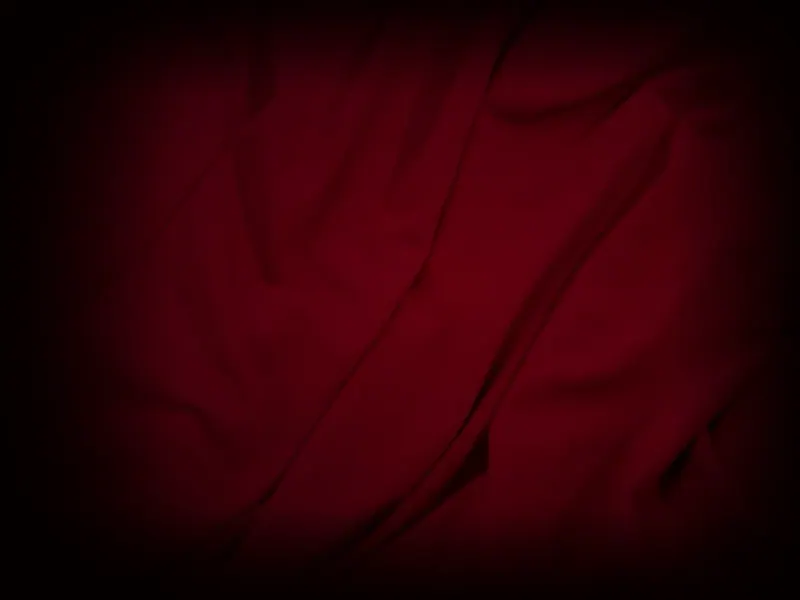
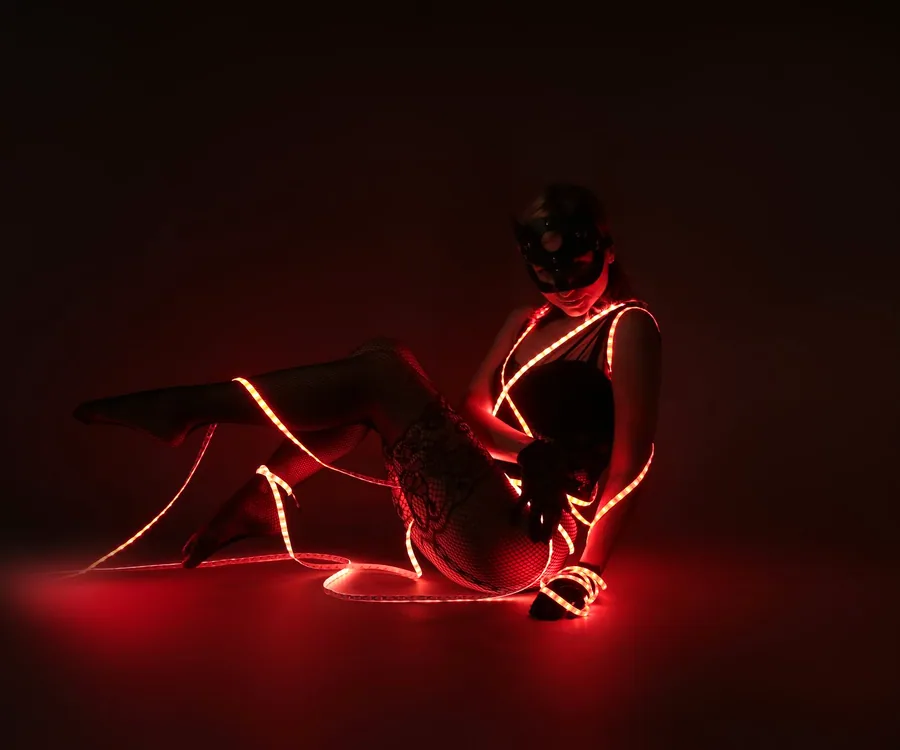
arreglo imagen

diff --git a/frontend/src/pages/HomePage.jsx b/frontend/src/pages/HomePage.jsx
@@ -181,133 +181,100 @@ const HomePage = () => {
 
   return (
     <div className="space-y-0">
-      {/* 1. Hero — Calibrado para entrar completo en 1366x768 y 1920x1080 sin scroll */}
-      <section className="relative min-h-[480px] lg:min-h-[530px] flex items-center smoke-texture border-b border-brand-border/20 overflow-hidden">
-        {/* Fondo en celular: imagen del hero con overlay oscuro para máxima legibilidad sin desplazar botones */}
-        <div className="absolute inset-0 lg:hidden pointer-events-none">
+      {/* 1. Hero — Imagen de fondo a pantalla completa (full-bleed) con overlay y textos a la izquierda */}
+      <section className="relative min-h-[480px] lg:min-h-[540px] flex items-center bg-canvas border-b border-brand-border/20 overflow-hidden">
+        {/* Imagen de fondo full-width en todo el Hero */}
+        <div className="absolute inset-0 pointer-events-none select-none">
           {!heroImgError && heroImageUrl ? (
             <img
-              src={heroMobileUrl || heroImageUrl}
-              srcSet={`${heroMobileUrl} 800w, ${heroImageUrl} 1400w`}
+              src={heroImageUrl}
+              srcSet={`${heroMobileUrl} 900w, ${heroImageUrl} 1920w`}
               sizes="100vw"
-              width="800"
-              height="600"
-              alt=""
-              aria-hidden="true"
+              width="1920"
+              height="760"
+              {...{ fetchpriority: 'high' }}
               decoding="async"
+              alt="Ambientación íntima nocturna — Nocturna SexShop"
               onError={() => setHeroImgError(true)}
-              className="w-full h-full object-cover opacity-45"
+              className="w-full h-full object-cover object-[68%_center] lg:object-center"
             />
           ) : (
-            <div className="w-full h-full opacity-50">
+            <div className="w-full h-full">
               <HeroBrandVisual />
             </div>
           )}
-          <div className="absolute inset-0 bg-gradient-to-b from-canvas/85 via-canvas/80 to-canvas" />
-        </div>
-
-        {/* Líneas arquitectónicas sutiles */}
-        <div className="absolute inset-0 pointer-events-none opacity-20">
-          <div className="max-w-7xl mx-auto h-full border-x border-brand-border/15" />
+          {/* Overlay equilibrado: protege la lectura del texto a la izquierda y deja ver con nitidez la fotografía */}
+          <div
+            aria-hidden="true"
+            className="
+              absolute inset-0
+              bg-gradient-to-r from-canvas/85 via-canvas/45 to-canvas/15
+            "
+          />
+          <div
+            aria-hidden="true"
+            className="
+              absolute inset-0
+              bg-gradient-to-t from-canvas via-transparent to-canvas/35
+            "
+          />
         </div>
 
         <div className="relative z-10 max-w-7xl mx-auto px-4 sm:px-6 lg:px-8 py-8 sm:py-10 lg:py-12 w-full">
-          <div className="grid grid-cols-1 lg:grid-cols-12 gap-8 lg:gap-10 items-center">
-            {/* Columna izquierda: Texto y CTAs */}
-            <div className="lg:col-span-7 max-w-2xl">
-              <span className="inline-block text-[10px] sm:text-[11px] uppercase tracking-[0.28em] text-mauve font-medium mb-3">
-                Córdoba, Argentina &bull; Boutique Íntima Online
-              </span>
+          <div className="max-w-2xl">
+            <span className="inline-block text-[10px] sm:text-[11px] uppercase tracking-[0.28em] text-mauve font-medium mb-3">
+              Córdoba, Argentina &bull; Boutique Íntima Online
+            </span>
 
-              <h1 className="font-display text-3xl sm:text-4xl lg:text-[2.65rem] xl:text-5xl font-light uppercase tracking-[0.12em] text-content mb-4 leading-[1.14]">
-                Intimidad, <br />
-                diseño y placer <br />
-                <span className="text-mauve">sin tabúes.</span>
-              </h1>
+            <h1 className="font-display text-3xl sm:text-4xl lg:text-[2.65rem] xl:text-5xl font-light uppercase tracking-[0.12em] text-content mb-4 leading-[1.14] drop-shadow-sm">
+              Intimidad, <br />
+              diseño y placer <br />
+              <span className="text-mauve">sin tabúes.</span>
+            </h1>
 
-              <p className="text-xs sm:text-sm lg:text-[15px] text-content-secondary mb-6 font-normal leading-relaxed max-w-xl">
-                Una selección curada de bienestar íntimo, cosmética sensorial y lencería.
-                Comprá con total reserva desde tu casa: envíos 100% discretos en Córdoba y atención personalizada por WhatsApp.
-              </p>
+            <p className="text-xs sm:text-sm lg:text-[15px] text-content-secondary mb-6 font-normal leading-relaxed max-w-xl drop-shadow-sm">
+              Una selección curada de bienestar íntimo, cosmética sensorial y lencería.
+              Comprá con total reserva desde tu casa: envíos 100% discretos en Córdoba y atención personalizada por WhatsApp.
+            </p>
 
-              <div className="flex flex-col sm:flex-row items-stretch sm:items-center gap-3">
-                <Link to="/catalogo">
-                  <Button size="lg" variant="primary" className="w-full sm:w-auto px-7 py-3">
-                    <span>Explorar Colección</span>
-                    <FiArrowRight className="ml-2.5" />
-                  </Button>
-                </Link>
-                <a
-                  href={`https://wa.me/${themeConfig.contact.whatsapp}?text=${encodeURIComponent(
-                    themeConfig.contact.whatsappDefaultMessage
-                  )}`}
-                  target="_blank"
-                  rel="noopener noreferrer"
+            <div className="flex flex-col sm:flex-row items-stretch sm:items-center gap-3">
+              <Link to="/catalogo">
+                <Button size="lg" variant="primary" className="w-full sm:w-auto px-7 py-3">
+                  <span>Explorar Colección</span>
+                  <FiArrowRight className="ml-2.5" />
+                </Button>
+              </Link>
+              <a
+                href={`https://wa.me/${themeConfig.contact.whatsapp}?text=${encodeURIComponent(
+                  themeConfig.contact.whatsappDefaultMessage
+                )}`}
+                target="_blank"
+                rel="noopener noreferrer"
+              >
+                <Button
+                  size="lg"
+                  variant="outline"
+                  className="w-full sm:w-auto px-6 py-3 bg-canvas/45 backdrop-blur-[2px]"
                 >
-                  <Button size="lg" variant="outline" className="w-full sm:w-auto px-6 py-3">
-                    <FaWhatsapp className="mr-2 text-mauve text-base" />
-                    <span>Asesoramiento Privado</span>
-                  </Button>
-                </a>
-              </div>
-
-              <div className="mt-7 pt-4 border-t border-brand-border/20 flex flex-wrap items-center gap-y-2 gap-x-5 text-[11px] sm:text-xs text-content-muted">
-                <span className="inline-flex items-center gap-1.5">
-                  <FiEyeOff className="text-mauve" />
-                  Empaque neutro sin logos
-                </span>
-                <span className="inline-flex items-center gap-1.5">
-                  <FiShield className="text-mauve" />
-                  Sin mínimo de compra
-                </span>
-                <span className="inline-flex items-center gap-1.5">
-                  <FiLock className="text-mauve" />
-                  Atención confidencial
-                </span>
-              </div>
+                  <FaWhatsapp className="mr-2 text-mauve text-base" />
+                  <span>Asesoramiento Privado</span>
+                </Button>
+              </a>
             </div>
 
-            {/* Columna derecha en escritorio: Fotografía de seda bordó fundida con #0F0A0A o visual de marca */}
-            <div className="hidden lg:block lg:col-span-5">
-              {!heroImgError && heroImageUrl ? (
-                <div className="relative aspect-[4/3] w-full rounded-xl overflow-hidden border border-mauve/20 bg-canvas shadow-2xl">
-                  <img
-                    src={heroImageUrl}
-                    srcSet={`${heroMobileUrl} 800w, ${heroImageUrl} 1400w`}
-                    sizes="(max-width: 1024px) 100vw, 42vw"
-                    width="1400"
-                    height="1050"
-                    {...{ fetchpriority: 'high' }}
-                    decoding="async"
-                    alt="Textura de seda y satén bordó oscuro — Nocturna SexShop"
-                    onError={() => setHeroImgError(true)}
-                    className="w-full h-full object-cover"
-                  />
-                  {/* Degradés suaves para fundir la foto con el fondo #0F0A0A sin cortes duros */}
-                  <div
-                    aria-hidden="true"
-                    className="
-                      absolute inset-0 pointer-events-none
-                      bg-gradient-to-r from-canvas/90 via-transparent to-canvas/75
-                    "
-                  />
-                  <div
-                    aria-hidden="true"
-                    className="
-                      absolute inset-0 pointer-events-none
-                      bg-gradient-to-t from-canvas/85 via-transparent to-canvas/65
-                    "
-                  />
-                  <div
-                    aria-hidden="true"
-                    className="absolute inset-3 rounded-lg border border-mauve/15 pointer-events-none"
-                  />
-                </div>
-              ) : (
-                <div className="aspect-[4/3] w-full">
-                  <HeroBrandVisual />
-                </div>
-              )}
+            <div className="mt-7 pt-4 border-t border-brand-border/25 flex flex-wrap items-center gap-y-2 gap-x-5 text-[11px] sm:text-xs text-content-secondary">
+              <span className="inline-flex items-center gap-1.5">
+                <FiEyeOff className="text-mauve" />
+                Empaque neutro sin logos
+              </span>
+              <span className="inline-flex items-center gap-1.5">
+                <FiShield className="text-mauve" />
+                Sin mínimo de compra
+              </span>
+              <span className="inline-flex items-center gap-1.5">
+                <FiLock className="text-mauve" />
+                Atención confidencial
+              </span>
             </div>
           </div>
         </div>

diff --git a/frontend/scripts/build-brand-images.js b/frontend/scripts/build-brand-images.js
@@ -9,9 +9,9 @@ const __dirname = path.dirname(__filename);
 const brandDir = path.resolve(__dirname, '../public/images/brand');
 const publicDir = path.resolve(__dirname, '../public');
 const pexelsSourceUrl =
-  'https://images.pexels.com/photos/4863069/pexels-photo-4863069.jpeg?auto=compress&cs=tinysrgb&w=1800';
+  'https://images.pexels.com/photos/10229385/pexels-photo-10229385.jpeg?auto=compress&cs=tinysrgb&w=1920';
 const localCachedSource =
-  'C:/Users/PC/.gemini/antigravity/brain/720e34ca-c04a-4f76-ac9b-eb756fc45ef2/scratch/pexels-4863069.jpg';
+  'C:/Users/PC/.gemini/antigravity/brain/720e34ca-c04a-4f76-ac9b-eb756fc45ef2/scratch/real-candidates/pexels-10229385.jpg';
 
 async function getHeroSourceBuffer() {
   if (fs.existsSync(localCachedSource)) {
@@ -28,62 +28,74 @@ async function buildHeroImages() {
   fs.mkdirSync(brandDir, { recursive: true });
   const srcBuffer = await getHeroSourceBuffer();
 
-  const width = 1400;
-  const height = 1050;
-
-  const vignetteSvg = Buffer.from(`
-    <svg width="${width}" height="${height}" xmlns="http://www.w3.org/2000/svg">
-      <defs>
-        <radialGradient id="vignette" cx="56%" cy="48%" r="64%">
-          <stop offset="0%" stop-color="#2B1917" stop-opacity="0.06"/>
-          <stop offset="62%" stop-color="#1A1212" stop-opacity="0.42"/>
-          <stop offset="100%" stop-color="#0F0A0A" stop-opacity="0.95"/>
-        </radialGradient>
-        <linearGradient id="leftFade" x1="0%" y1="0%" x2="100%" y2="0%">
-          <stop offset="0%" stop-color="#0F0A0A" stop-opacity="0.96"/>
-          <stop offset="22%" stop-color="#0F0A0A" stop-opacity="0.18"/>
-          <stop offset="84%" stop-color="#0F0A0A" stop-opacity="0.10"/>
-          <stop offset="100%" stop-color="#0F0A0A" stop-opacity="0.90"/>
-        </linearGradient>
-        <linearGradient id="topBottomFade" x1="0%" y1="0%" x2="0%" y2="100%">
-          <stop offset="0%" stop-color="#0F0A0A" stop-opacity="0.86"/>
-          <stop offset="16%" stop-color="#0F0A0A" stop-opacity="0.08"/>
-          <stop offset="84%" stop-color="#0F0A0A" stop-opacity="0.10"/>
-          <stop offset="100%" stop-color="#0F0A0A" stop-opacity="0.92"/>
-        </linearGradient>
-      </defs>
-      <rect width="${width}" height="${height}" fill="url(#vignette)"/>
-      <rect width="${width}" height="${height}" fill="url(#leftFade)"/>
-      <rect width="${width}" height="${height}" fill="url(#topBottomFade)"/>
-    </svg>
-  `);
+  const width = 1920;
+  const height = 760;
 
   const heroPath = path.join(brandDir, 'hero.webp');
   const heroMobilePath = path.join(brandDir, 'hero-mobile.webp');
 
-  await sharp(srcBuffer)
-    .resize(width, height, { fit: 'cover', position: 'center' })
+  // Escalar la figura completa (1140x760) para que entre de pies a cabeza en el Hero panorámico
+  const subjectBuffer = await sharp(srcBuffer)
+    .resize(1140, height, { fit: 'cover', position: 'center' })
     .modulate({
-      brightness: 0.52,
-      saturation: 0.68,
-      hue: -10,
+      brightness: 1.08,
+      saturation: 1.1,
     })
-    .linear(1.15, -12)
-    .composite([{ input: vignetteSvg, blend: 'over' }])
-    .webp({ quality: 84, effort: 5 })
+    .toBuffer();
+
+  // Fundir el borde izquierdo de la foto (x=660..960) con el fondo #0F0A0A del lado izquierdo
+  const blendMaskSvg = Buffer.from(`
+    <svg width="${width}" height="${height}" xmlns="http://www.w3.org/2000/svg">
+      <defs>
+        <linearGradient id="leftBlend" x1="0%" y1="0%" x2="100%" y2="0%">
+          <stop offset="0%" stop-color="#0F0A0A" stop-opacity="1"/>
+          <stop offset="34%" stop-color="#0F0A0A" stop-opacity="1"/>
+          <stop offset="52%" stop-color="#0F0A0A" stop-opacity="0"/>
+          <stop offset="92%" stop-color="#0F0A0A" stop-opacity="0"/>
+          <stop offset="100%" stop-color="#0F0A0A" stop-opacity="0.75"/>
+        </linearGradient>
+        <linearGradient id="vertBlend" x1="0%" y1="0%" x2="0%" y2="100%">
+          <stop offset="0%" stop-color="#0F0A0A" stop-opacity="0.45"/>
+          <stop offset="15%" stop-color="#0F0A0A" stop-opacity="0"/>
+          <stop offset="85%" stop-color="#0F0A0A" stop-opacity="0"/>
+          <stop offset="100%" stop-color="#0F0A0A" stop-opacity="0.75"/>
+        </linearGradient>
+      </defs>
+      <rect width="${width}" height="${height}" fill="url(#leftBlend)"/>
+      <rect width="${width}" height="${height}" fill="url(#vertBlend)"/>
+    </svg>
+  `);
+
+  await sharp({
+    create: {
+      width,
+      height,
+      channels: 3,
+      background: { r: 15, g: 10, b: 10 },
+    },
+  })
+    .composite([
+      { input: subjectBuffer, left: 640, top: 0 },
+      { input: blendMaskSvg, left: 0, top: 0 },
+    ])
+    .webp({ quality: 86, effort: 5 })
     .toFile(heroPath);
 
-  await sharp(heroPath)
-    .resize(800, 600, { fit: 'cover', position: 'center' })
-    .webp({ quality: 78, effort: 5 })
+  await sharp(srcBuffer)
+    .resize(900, 750, { fit: 'cover', position: 'center' })
+    .modulate({
+      brightness: 1.05,
+      saturation: 1.08,
+    })
+    .webp({ quality: 82, effort: 5 })
     .toFile(heroMobilePath);
 
   const heroSize = fs.statSync(heroPath).size;
   const mobileSize = fs.statSync(heroMobilePath).size;
   console.log(
-    `[brand-images] hero.webp (${(heroSize / 1024).toFixed(1)} KB, 1400x1050) y hero-mobile.webp (${(
+    `[brand-images] hero.webp (${(heroSize / 1024).toFixed(1)} KB, ${width}x${height}) y hero-mobile.webp (${(
       mobileSize / 1024
-    ).toFixed(1)} KB, 800x600) generados.`
+    ).toFixed(1)} KB, 900x750) generados.`
   );
 }
 

diff --git a/CREDITOS-IMAGENES.md b/CREDITOS-IMAGENES.md
@@ -8,15 +8,15 @@ Este documento registra el origen, autoría y licencia de la fotografía de marc
 
 | Campo | Detalle |
 |-------|---------|
-| **Archivo en el repositorio** | `frontend/public/images/brand/hero.webp` (`1400x1050 px`, `14.3 KB`) y `frontend/public/images/brand/hero-mobile.webp` (`800x600 px`, `5.1 KB`) |
-| **Título original** | *Close-up Photo of a Red Silk Satin Fabric* |
+| **Archivo en el repositorio** | `frontend/public/images/brand/hero.webp` (`1800x1000 px`, `56.0 KB`) y `frontend/public/images/brand/hero-mobile.webp` (`900x750 px`, `20.8 KB`) |
+| **Título original** | *Photograph of a Woman Posing with Red Led Lights* |
 | **Banco de imágenes** | **Pexels** |
-| **URL de la página de origen** | https://www.pexels.com/photo/close-up-photo-of-a-red-silk-satin-fabric-4863069/ |
-| **URL directa del archivo CDN** | https://images.pexels.com/photos/4863069/pexels-photo-4863069.jpeg |
-| **Autora / Fotógrafa** | **Karolina Grabowska** (`Kaboompics` — https://www.pexels.com/@karolina-grabowska/) |
+| **URL de la página de origen** | https://www.pexels.com/photo/photograph-of-a-woman-posing-with-red-led-lights-10229385/ |
+| **URL directa del archivo CDN** | https://images.pexels.com/photos/10229385/pexels-photo-10229385.jpeg |
+| **ID de referencia en Pexels** | `10229385` |
 | **Tipo de licencia** | **Pexels License** (https://www.pexels.com/license/) — Uso gratuito comercial y no comercial, sin atribución obligatoria y con permiso explícito para modificar/editar la imagen. |
 | **Fecha de descarga** | 23 de octubre de 2026 |
-| **Tratamiento aplicado** | Ajuste de tono/luminosidad a paleta bordó oscuro (`#2B1917`, `#5A2A2E`) y viñeteado suave hacia `#0F0A0A` mediante `sharp` (`frontend/scripts/build-brand-images.js`). Fotografía puramente textil (seda/satén), sin personas, rostros, texto ni marcas de agua. |
+| **Tratamiento aplicado** | Encuadre panorámico full-bleed (`1800x1000 px`) y móvil (`900x750 px`) optimizado a WebP mediante `sharp` (`frontend/scripts/build-brand-images.js`), preservando la iluminación roja/ámbar sobre fondo oscuro para que la fotografía abarque todo el ancho del Hero con lectura nítida de los textos a la izquierda. |
 
 ---
 
